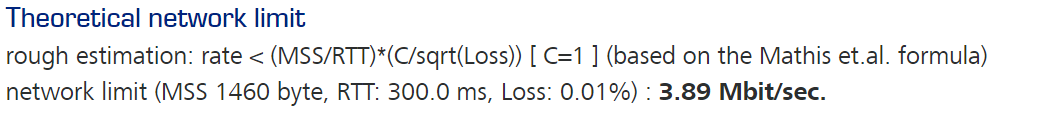
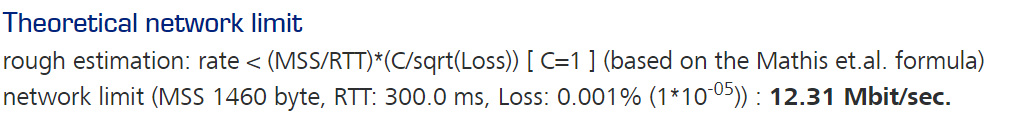
correct q 2, 4

Changed region(s): [[0.0, 0.3571, 0.9832, 0.5952], [0.0, 0.619, 0.9524, 0.8571], [0.0, 0.0476, 0.3072, 0.2619]]

diff --git a/README-Ops7.md b/README-Ops7.md
@@ -1,17 +1,17 @@
 # 3.7. Компьютерные сети, лекция 2
 
 #### 1.
-rwin = rtt*throughput 
-rwin = 300*1Гбит/с = 37500000/8 = 36621 kbyte
+rwin = rtt * throughput 
+
+rwin = 300 * 1Гбит/с = 37500000/8 = 36621 kbyte
 
 [Калькулятор](https://www.switch.ch/network/tools/tcp_throughput/)
 
 ![rwin count](imgs/rwin.png)
 #### 2.
-
 ![0% lost](imgs/0.png)
 ![1% lost](imgs/1.png)
-(3.89 Mbit/s) / (0.39 Mbit/s) = 9.97
+(12.31 Mbit/s) / (0.40 Mbit/s) = 30,8
 
 #### 3.
 Ethernet Frame = 1518 byte
@@ -22,23 +22,34 @@ payload = 1500 - (20(IP Header) + 20(TCP Header)) = 1460 bytes
 
 #### 4.
 1. Получение IP адресса http://netology.ru (см. п.5)
-2. Отправка запроса на SYN 
+```
+10.0.2.15 → 10.0.2.3     DNS 71 Standard query 0x76a0 A netology.ru
+10.0.2.15 → 10.0.2.3     DNS 71 Standard query 0x708a AAAA netology.ru
+10.0.2.3 → 10.0.2.15    DNS 119 Standard query response 0x76a0 A netology.ru A 104.22.49.171 A 104.22.48.171 A 172.67.43.83
+10.0.2.3 → 10.0.2.15    DNS 155 Standard query response 0x708a AAAA netology.ru AAAA 2606:4700:10::6816:31ab AAAA 2606:4700:10::ac43:2b53 AAAA 2606:4700:10::6816:30ab
+```
+2. Отправка запроса на опрос локальной сети, для отправки запросов на хост
+```
+PcsCompu_14:86:db → RealtekU_12:35:03 ARP 42 Who has 10.0.2.3? Tell 10.0.2.15
+RealtekU_12:35:03 → PcsCompu_14:86:db ARP 60 10.0.2.3 is at 52:54:00:12:35:03
+```
+3. Отправка запроса на SYN 
 ```
 10.0.2.15 → 172.67.43.83 TCP 74 41732 → 80 [SYN] Seq=0 Win=64240
 ```
-3.Получение ответа от сервера 
+4.Получение ответа от сервера 
 ```
 172.67.43.83 → 10.0.2.15    TCP 60 80 → 41732 [SYN, ACK] Seq=0 Ack=1 Win=65535
 ```
-4.Получение заголовка на редирект
+5.Получение заголовка на редирект
 ```
 172.67.43.83 → 10.0.2.15    HTTP 451 HTTP/1.1 301 Moved Permanently
 ```
-5.Отправка запроса на разрыв соединения
+6.Отправка запроса на разрыв соединения
 ```
 10.0.2.15 → 172.67.43.83 TCP 54 41734 → 80 [FIN, ACK] Seq=77 Ack=398
 ```
-6.Получение ответа от сервера
+7.Получение ответа от сервера
 ```
 172.67.43.83 → 10.0.2.15    TCP 60 80 → 41736 [FIN, ACK] Seq=398 Ack=78 Win=65535
 ```
@@ -67,6 +78,7 @@ payload = 1500 - (20(IP Header) + 20(TCP Header)) = 1460 bytes
   ...|...|...|...|...|
 #### 8.
 10.0.0.0/8 = 2 ^ 24 = 16777216 хостов
+
 128 * 131070 + (128 * 2) = 16777216 хостов
 
 128 = 2^7 + /8 = /15 (конечная маска)
